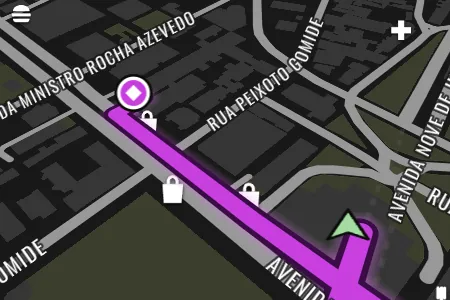
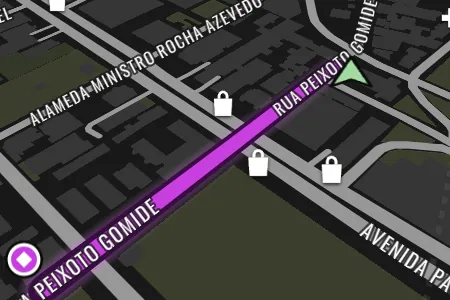
Miniaturas do seletor: rota entre dois endereços definidos
A captura agora vai da Rua Peixoto Gomide, 707 até a Rua Peixoto Gomide, 996 (coordenadas
do Photon), 294 m direto na mão da rua, com a câmera centrada no traçado da rota. Antes eram
pontos soltos na Avenida Paulista. Outros pares de endereços daqui faziam o OSRM dar a volta
no quarteirão (mãos únicas) e a rota não cabia na miniatura.

diff --git a/referencias/tools/miniaturas.py b/referencias/tools/miniaturas.py
@@ -1,7 +1,7 @@
 """Gera as miniaturas do seletor de mapas: public/miniaturas/<tema>.webp.
 
-Uma captura real de cada tema, desenhada pelo próprio MapLibre, todas no mesmo lugar e zoom
-(Avenida Paulista), com o marcador do jogador, o pino e a rota no estilo de cada tema. A
+Uma captura real de cada tema, desenhada pelo próprio MapLibre, todas no mesmo lugar e zoom,
+com o marcador do jogador, o pino e a rota no estilo de cada tema. A
 interface e a atribuição ficam escondidas (a atribuição aparece no mapa de verdade, ao fundo).
 
 Rode de novo ao criar ou mudar um tema. Precisa do servidor de dev rodando
@@ -20,12 +20,24 @@ from playwright.sync_api import sync_playwright
 RAIZ = Path(__file__).resolve().parents[2]
 SAIDA = RAIZ / 'public' / 'miniaturas'
 URL = 'https://localhost:5173/'
-POS = (-23.5614, -46.6559)  # jogador (lat, lng), perto do MASP
-DESTINO = [-46.6574, -23.5602]  # [lng, lat], ~200 m: jogador, rota e pino cabem na miniatura
-# Igual para todos os temas (o Minecraft (mapa) limita a inclinação a 0 sozinho): centro no
-# meio do caminho entre o jogador e o destino.
-CAMERA = {'center': [(POS[1] + DESTINO[0]) / 2, (POS[0] + DESTINO[1]) / 2], 'zoom': 16, 'pitch': 45,
-          'bearing': 0, 'padding': {'top': 0, 'bottom': 0, 'left': 0, 'right': 0}}
+# Rota de um endereço a outro (coordenadas do Photon, o mesmo serviço de busca do app).
+# Na mão da rua: o OSRM faz 294 m direto pela Peixoto Gomide (no sentido contrário, ou para
+# outras ruas daqui, as mãos únicas obrigam a dar a volta no quarteirão e a rota não cabe).
+#   jogador: Rua Peixoto Gomide, 707 (CEP 01409-001)
+#   destino: Rua Peixoto Gomide, 996 (CEP 01409-000)
+POS = (-23.56014, -46.656134)  # (lat, lng)
+DESTINO = [-46.658386, -23.561835]  # [lng, lat]
+# Igual para todos os temas (o Minecraft (mapa) limita a inclinação a 0 sozinho). O centro é o
+# meio do traçado da rota, calculado depois que ela chega do OSRM.
+CAMERA = {'zoom': 16, 'pitch': 45, 'bearing': 0, 'padding': {'top': 0, 'bottom': 0, 'left': 0, 'right': 0}}
+CENTRALIZAR = """(c) => {
+  const pts = minimapa.getState().route?.coords ?? [];
+  const lngs = pts.map(p => p[0]), lats = pts.map(p => p[1]);
+  const center = pts.length
+    ? [(Math.min(...lngs) + Math.max(...lngs)) / 2, (Math.min(...lats) + Math.max(...lats)) / 2]
+    : minimapa.getState().position;
+  minimapa.map.jumpTo({ ...c, center });
+}"""
 # 300×200 com escala 1,5 = imagem de 450×300 (cartão de ~150 px em tela de densidade 3).
 TELA = {'width': 300, 'height': 200}
 ESCALA = 1.5
@@ -60,7 +72,7 @@ def main() -> None:
                 DESTINO,
             )
             page.add_style_tag(content='#ui, .maplibregl-ctrl-bottom-right, .maplibregl-popup { display: none !important; }')
-            page.evaluate('c => minimapa.map.jumpTo(c)', CAMERA)
+            page.evaluate(CENTRALIZAR, CAMERA)
             page.wait_for_timeout(500)
             page.wait_for_function(ESPERA_TILES, timeout=30000, polling=250)
             page.wait_for_timeout(1500)  # rótulos e ícones terminam de aparecer
